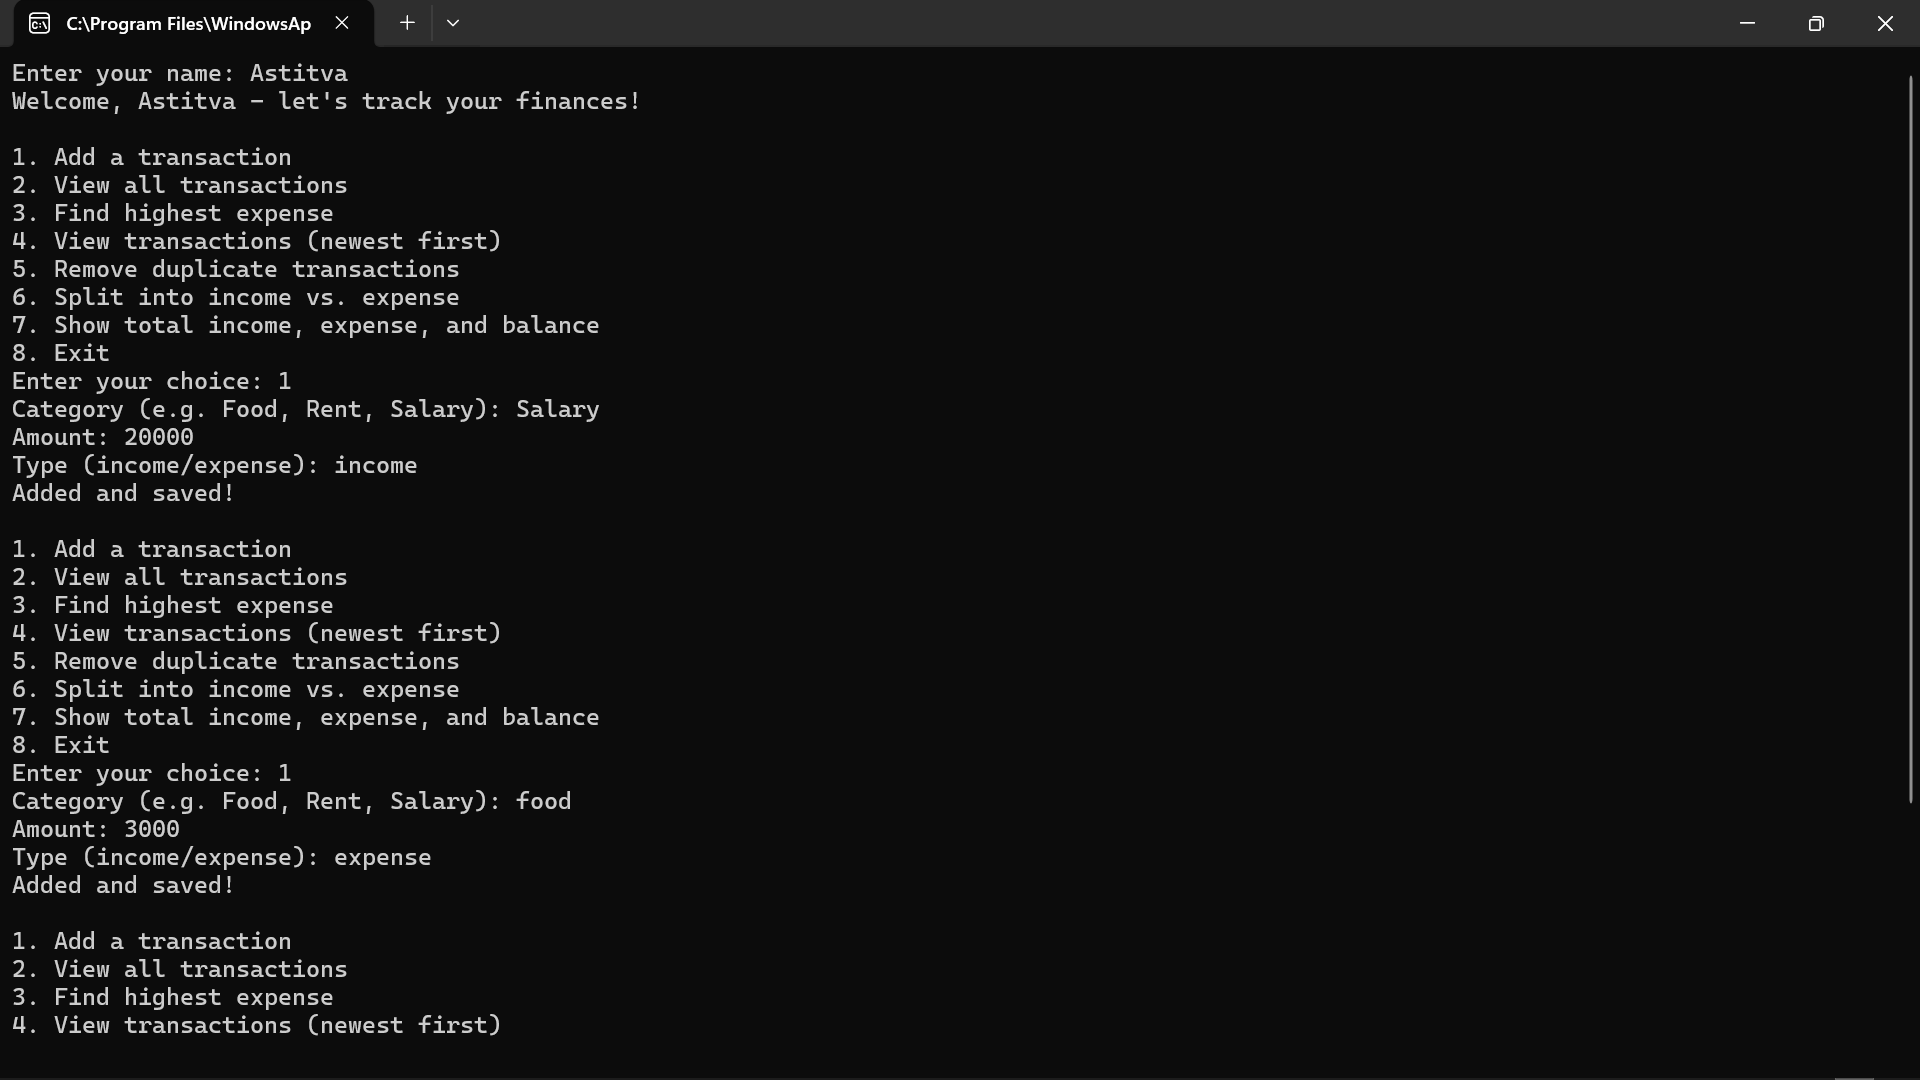
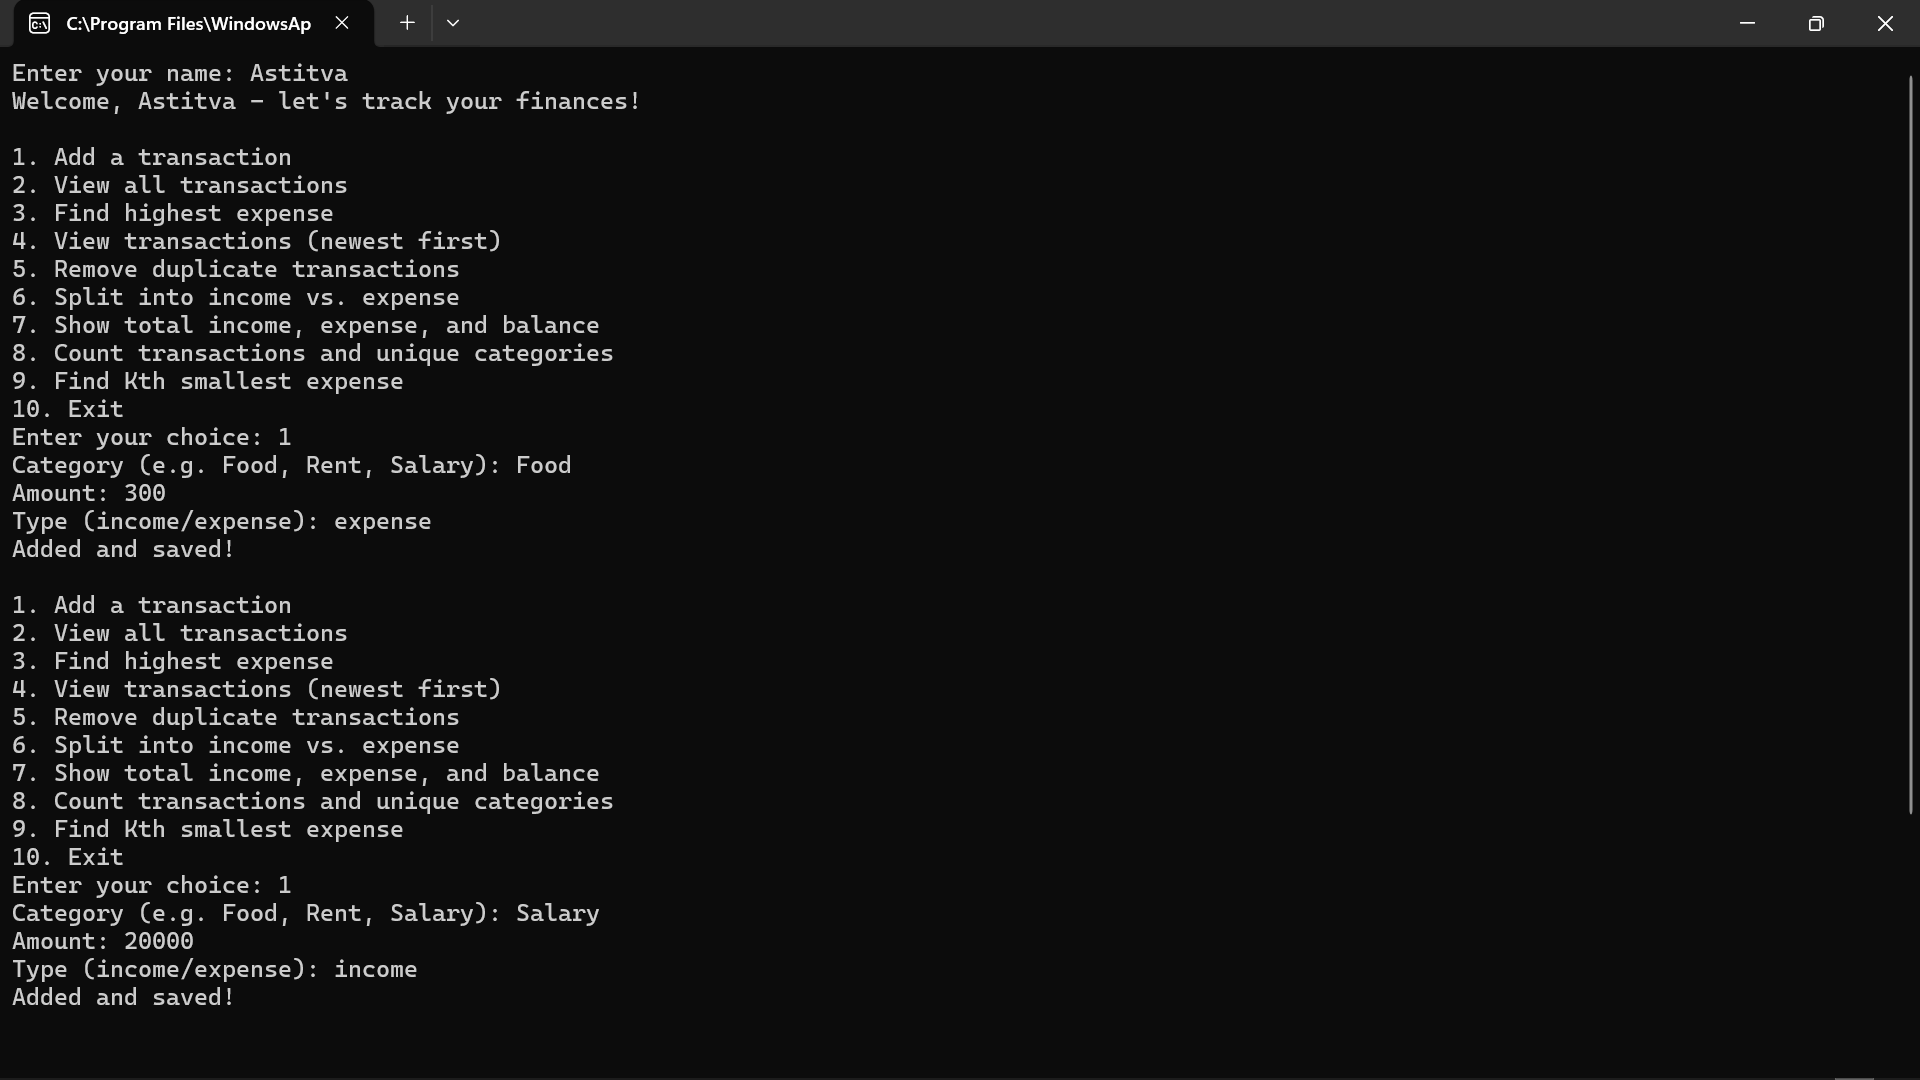
Add transaction stats, Kth smallest expense, and stricter validation

Changed region(s): [[0.0, 0.3056, 0.3125, 0.9778]]

diff --git a/main.py b/main.py
@@ -1,4 +1,4 @@
-# Personal Finance Tracker
+# Personal Finance Tracker - FinTrack
 # CSE1021 - Introduction to Problem Solving and Programming
 # Name: Astitva Srivastava
 # Reg No: 26BAS10101
@@ -15,6 +15,8 @@ try:
     f = open(data_file, "r")
     all_data = json.load(f)
     f.close()
+    if not isinstance(all_data, dict):
+        all_data = {}
 except (FileNotFoundError, json.decoder.JSONDecodeError):
     all_data = {}
 
@@ -35,7 +37,9 @@ while True:
     print("5. Remove duplicate transactions")
     print("6. Split into income vs. expense")
     print("7. Show total income, expense, and balance")
-    print("8. Exit")
+    print("8. Count transactions and unique categories")
+    print("9. Find Kth smallest expense")
+    print("10. Exit")
 
     choice = input("Enter your choice: ")
 
@@ -47,12 +51,15 @@ while True:
             print("Amount must be a number. Transaction not added.")
         else:
             typ = input("Type (income/expense): ")
-            tx.append({"category": cat, "amount": amt, "type": typ})
-            all_data[user_name] = tx
-            f = open(data_file, "w")
-            json.dump(all_data, f)
-            f.close()
-            print("Added and saved!")
+            if typ not in ["income", "expense"]:
+                print("Type must be exactly 'income' or 'expense'. Transaction not added.")
+            else:
+                tx.append({"category": cat, "amount": amt, "type": typ})
+                all_data[user_name] = tx
+                f = open(data_file, "w")
+                json.dump(all_data, f)
+                f.close()
+                print("Added and saved!")
 
     elif choice == "2":
         for t in tx:
@@ -85,7 +92,7 @@ while True:
         for t in tx:
             dup = False
             for c in clean:
-                if t["category"] == c["category"] and t["amount"] == c["amount"]:
+                if t["category"] == c["category"] and t["amount"] == c["amount"] and t["type"] == c["type"]:
                     dup = True
             if not dup:
                 clean.append(t)
@@ -128,6 +135,55 @@ while True:
         print("Net balance:", bal)
 
     elif choice == "8":
+        total_cnt = 0
+        inc_cnt = 0
+        exp_cnt = 0
+        categories = set()
+
+        for t in tx:
+            total_cnt = total_cnt + 1
+            if t["type"] == "income":
+                inc_cnt = inc_cnt + 1
+            else:
+                exp_cnt = exp_cnt + 1
+            categories.add(t["category"])
+
+        print()
+        print("Total transactions:", total_cnt)
+        print("Income transactions:", inc_cnt)
+        print("Expense transactions:", exp_cnt)
+        print("Unique categories:", len(categories))
+
+    elif choice == "9":
+        exp_only = []
+        for t in tx:
+            if t["type"] == "expense":
+                exp_only.append(t)
+
+        if len(exp_only) == 0:
+            print("No expenses yet.")
+        else:
+            k_input = input("Enter K (1 to " + str(len(exp_only)) + "): ")
+            if not k_input.isdigit():
+                print("K must be a positive number.")
+            else:
+                k = int(k_input)
+                if k < 1 or k > len(exp_only):
+                    print("Invalid K value.")
+                else:
+                    for i in range(len(exp_only)):
+                        min_idx = i
+                        for j in range(i + 1, len(exp_only)):
+                            if float(exp_only[j]["amount"]) < float(exp_only[min_idx]["amount"]):
+                                min_idx = j
+                        temp = exp_only[i]
+                        exp_only[i] = exp_only[min_idx]
+                        exp_only[min_idx] = temp
+
+                    res = exp_only[k - 1]
+                    print("Rank", k, "smallest expense:", res["category"], "-", res["amount"])
+
+    elif choice == "10":
         print("Goodbye!")
         break
 

diff --git a/main_backup.py b/main_backup.py
@@ -1,4 +1,4 @@
-# Personal Finance Tracker
+# Personal Finance Tracker - FinTrack
 # CSE1021 - Introduction to Problem Solving and Programming
 # Name: Astitva Srivastava
 # Reg No: 26BAS10101
@@ -15,6 +15,8 @@ try:
     f = open(data_file, "r")
     all_data = json.load(f)
     f.close()
+    if not isinstance(all_data, dict):
+        all_data = {}
 except (FileNotFoundError, json.decoder.JSONDecodeError):
     all_data = {}
 
@@ -35,7 +37,9 @@ while True:
     print("5. Remove duplicate transactions")
     print("6. Split into income vs. expense")
     print("7. Show total income, expense, and balance")
-    print("8. Exit")
+    print("8. Count transactions and unique categories")
+    print("9. Find Kth smallest expense")
+    print("10. Exit")
 
     choice = input("Enter your choice: ")
 
@@ -47,12 +51,15 @@ while True:
             print("Amount must be a number. Transaction not added.")
         else:
             typ = input("Type (income/expense): ")
-            tx.append({"category": cat, "amount": amt, "type": typ})
-            all_data[user_name] = tx
-            f = open(data_file, "w")
-            json.dump(all_data, f)
-            f.close()
-            print("Added and saved!")
+            if typ not in ["income", "expense"]:
+                print("Type must be exactly 'income' or 'expense'. Transaction not added.")
+            else:
+                tx.append({"category": cat, "amount": amt, "type": typ})
+                all_data[user_name] = tx
+                f = open(data_file, "w")
+                json.dump(all_data, f)
+                f.close()
+                print("Added and saved!")
 
     elif choice == "2":
         for t in tx:
@@ -85,7 +92,7 @@ while True:
         for t in tx:
             dup = False
             for c in clean:
-                if t["category"] == c["category"] and t["amount"] == c["amount"]:
+                if t["category"] == c["category"] and t["amount"] == c["amount"] and t["type"] == c["type"]:
                     dup = True
             if not dup:
                 clean.append(t)
@@ -128,6 +135,55 @@ while True:
         print("Net balance:", bal)
 
     elif choice == "8":
+        total_cnt = 0
+        inc_cnt = 0
+        exp_cnt = 0
+        categories = set()
+
+        for t in tx:
+            total_cnt = total_cnt + 1
+            if t["type"] == "income":
+                inc_cnt = inc_cnt + 1
+            else:
+                exp_cnt = exp_cnt + 1
+            categories.add(t["category"])
+
+        print()
+        print("Total transactions:", total_cnt)
+        print("Income transactions:", inc_cnt)
+        print("Expense transactions:", exp_cnt)
+        print("Unique categories:", len(categories))
+
+    elif choice == "9":
+        exp_only = []
+        for t in tx:
+            if t["type"] == "expense":
+                exp_only.append(t)
+
+        if len(exp_only) == 0:
+            print("No expenses yet.")
+        else:
+            k_input = input("Enter K (1 to " + str(len(exp_only)) + "): ")
+            if not k_input.isdigit():
+                print("K must be a positive number.")
+            else:
+                k = int(k_input)
+                if k < 1 or k > len(exp_only):
+                    print("Invalid K value.")
+                else:
+                    for i in range(len(exp_only)):
+                        min_idx = i
+                        for j in range(i + 1, len(exp_only)):
+                            if float(exp_only[j]["amount"]) < float(exp_only[min_idx]["amount"]):
+                                min_idx = j
+                        temp = exp_only[i]
+                        exp_only[i] = exp_only[min_idx]
+                        exp_only[min_idx] = temp
+
+                    res = exp_only[k - 1]
+                    print("Rank", k, "smallest expense:", res["category"], "-", res["amount"])
+
+    elif choice == "10":
         print("Goodbye!")
         break
 

diff --git a/README.md b/README.md
@@ -10,7 +10,9 @@ A command-line Python program to log income and expenses and get simple analytic
 5. Remove duplicate transactions
 6. Split transactions into income vs. expense
 7. Show total income, total expense, and net balance
-8. Data is saved to `data.json` and reloaded automatically next time you run it
+8. Count total transactions and unique categories
+9. Find the Kth smallest expense
+10. Exit
 
 ## Technologies Used
 - Python 3
